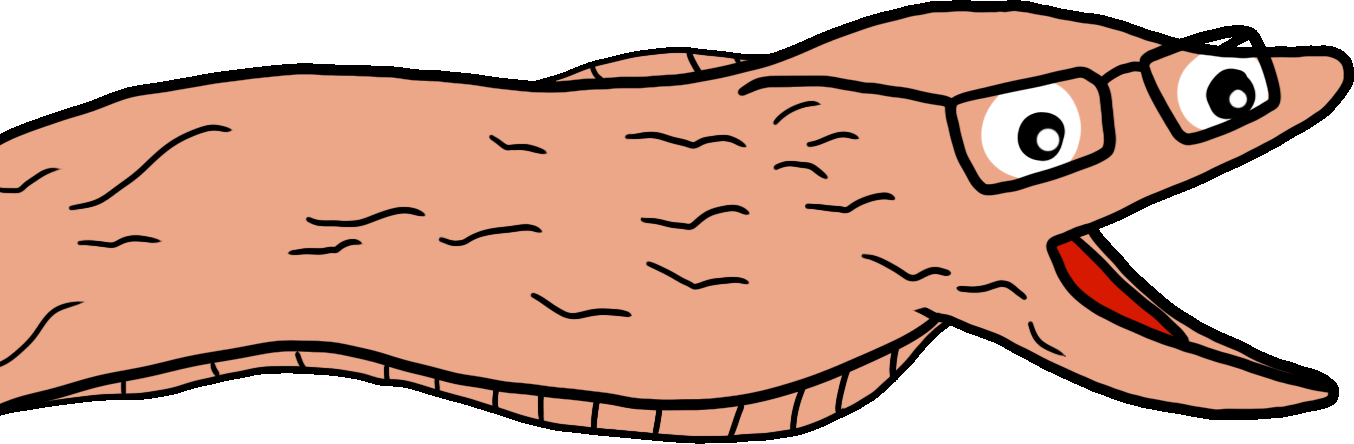
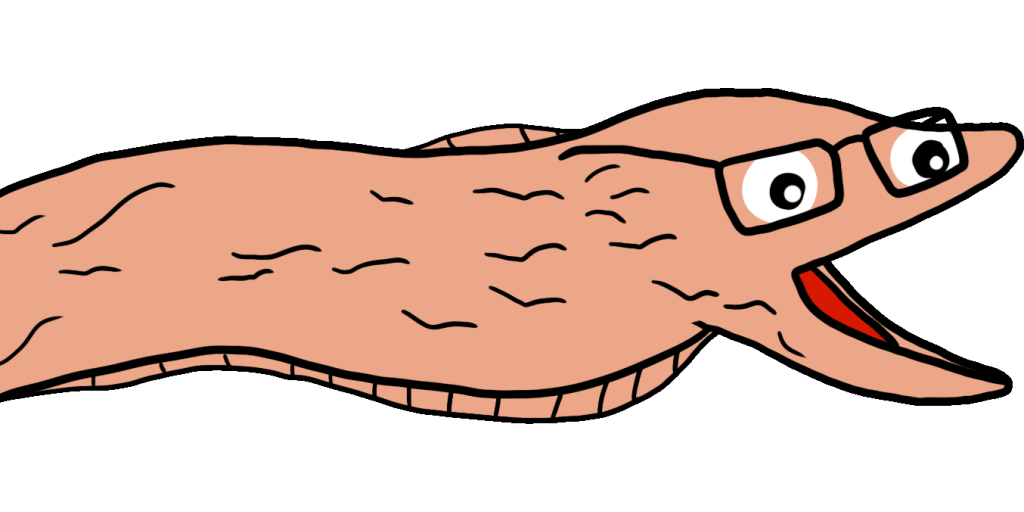
update the eel texture sizes

diff --git a/src/main.js b/src/main.js
@@ -75,8 +75,8 @@ for (let index = 0; index < eelImages.length; index++) {
 	eelImages[index].src = eelImageSrc[index];
 }
 const eelCanvas = document.createElement('canvas');
-eelCanvas.height = 500;
-eelCanvas.width = 1500;
+eelCanvas.height = 512;
+eelCanvas.width = 1024;
 const eelCtx = eelCanvas.getContext('2d');
 const eelFPS = 12;
 let lastEelFrame = Date.now();

diff --git a/src/environment.js b/src/environment.js
@@ -119,7 +119,7 @@ module.exports = (scene, globalConfig) => {
 	eelLayer.scale.y = 10;
 	eelLayer.position.x = -14;
 	eelLayer.originalPositionX = eelLayer.position.x;
-	eelLayer.position.y = -7.25;
+	eelLayer.position.y = -7;
 	eelLayer.position.z = 19;
 	eelLayer.position.z -= (layerOffset * 2);
 	scene.add(eelLayer);
